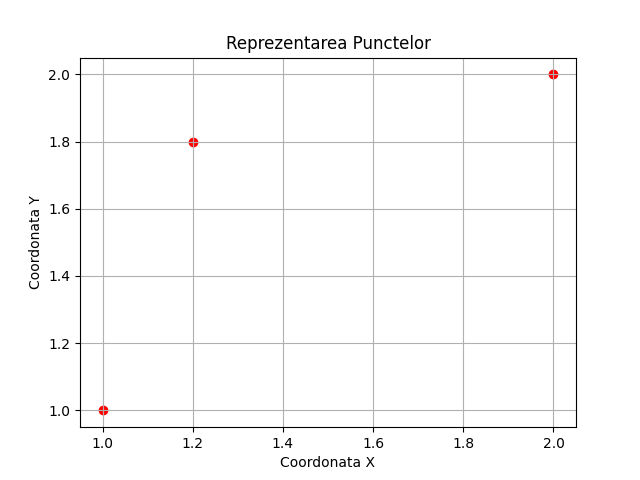
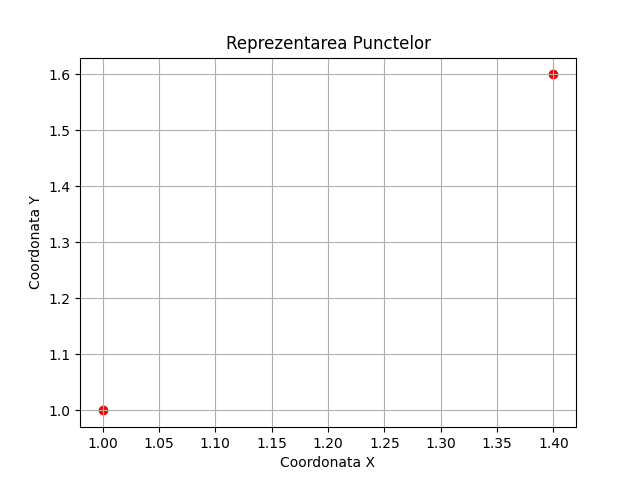
you can see added and removed points now

diff --git a/DataPlotter/console/popUpManager.py b/DataPlotter/console/popUpManager.py
@@ -70,6 +70,32 @@ def addPointPopUp():
 
     return None
 
+def removePointPopUp():
+    global puncte  # Declară variabila puncte ca fiind globală pentru a o putea modifica în funcție
+    psg.set_options(font=('Arial Bold', 16))
+    layout = [
+        [psg.Text('X ', size=(10, 1)), psg.Input(expand_x=True)],
+        [psg.Text('Y ', size=(10, 1)), psg.Input(expand_x=True)],
+        [psg.OK(), psg.Cancel()]
+    ]
+    window = psg.Window('Form', layout, size=(200, 200))
+    event, values = window.read()
+    window.close()
+
+    if event == 'OK':
+        x, y = float(values[0]), float(values[1])
+        point = Point(x, y)
+        puncte.remove(point)
+
+        # Actualizare și afișare grafic în timp real
+        updatePlot()
+
+        return point
+
+    return None
+
+
+
 
 def integralPopUp(processor):
     psg.set_options(font=('Arial Bold', 16))

diff --git a/DataPlotter/console/consoleRunner.py b/DataPlotter/console/consoleRunner.py
@@ -34,6 +34,9 @@ def addPointPopUp_from_button():
     # Funcția care va fi apelată la apăsarea butonului "Button One"
     popUp.addPointPopUp()
 
+def removePointPopUp_from_button():
+    popUp.removePointPopUp()
+
 def runner():
     # Definirea aspectului ferestrei cu un element Text și un buton
     layout = [
@@ -68,6 +71,8 @@ def runner():
         elif event == '-BUTTON_ONE-':
             # Apelarea funcției când este apăsat butonul "Button One"
             addPointPopUp_from_button()
+        elif event == '-BUTTON_TWO':
+            removePointPopUp_from_button()
 
     # Închiderea ferestrei la finalul buclei
     window.close()
